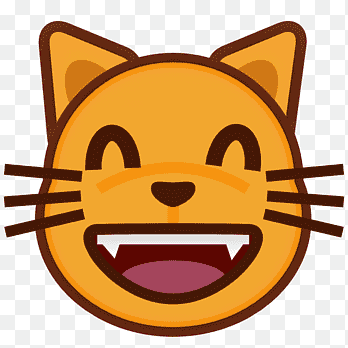
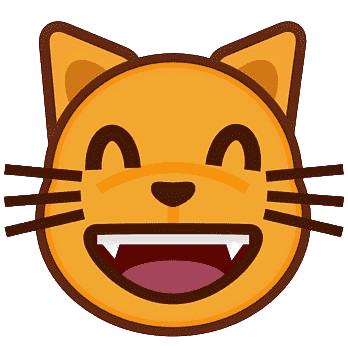
Cambiar los elementos gato y pescado a transparente y crear txt de videos

diff --git a/cazando.js b/cazando.js
@@ -19,7 +19,7 @@
   imgGato.src = "Gato_boca_abierta.png";
 
   const imgPescado = new Image();
-  imgPescado.src = "Pescado.jpg";
+  imgPescado.src = "Pescado.png";
 
   const imgFondo = new Image();
   imgFondo.src = "fondo.jpg";
